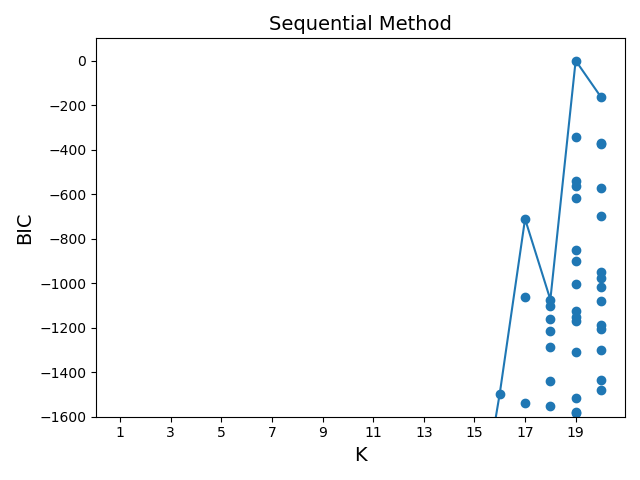
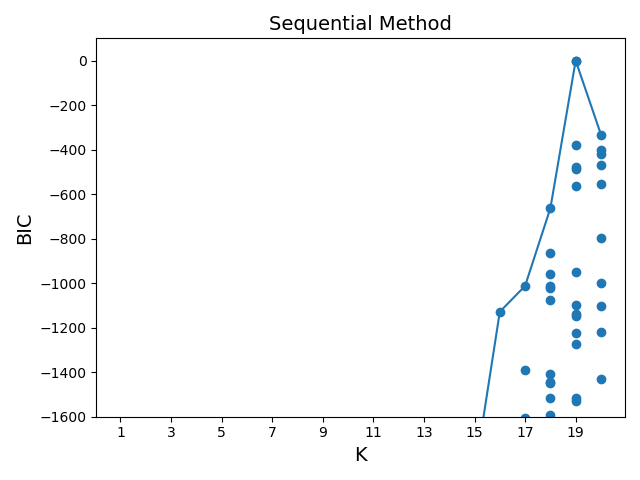
fixing the seed problem, maybe re-running after advisor meeting

diff --git a/reviewer_figmaker.py b/reviewer_figmaker.py
@@ -10,7 +10,7 @@ prop_cycle = plt.rcParams['axes.prop_cycle']
 colors = prop_cycle.by_key()['color']
 os.chdir('files')
 savepath = '../figs/'
-run=False
+run=True
 
 D = np.load('../ivscc_data_n12.npz',allow_pickle=True)
 all_spks = D['binned_spikes']
@@ -67,8 +67,8 @@ if run:
                 fname = 'sim_frivsccsimul_simul'+str(trial)+'_Kfit'+str(Kfit)+'_l2i'+str(l2_i)+'_share='+share
                 try:
                     D = np.load(fname+'.npz',allow_pickle=True)
+                    simul_bics[Ki,trial] = D['BIC']
                     if D['BIC']>max_BIC:
-                        simul_bics[Ki,trial] = D['BIC']
                         max_BIC=D['BIC']
                         if Kfit==K_max:
                             simul_D = {k:D[k] for k in ['ars','Ws','Fs','bs','mu_k','C_k','wts','l2']}
